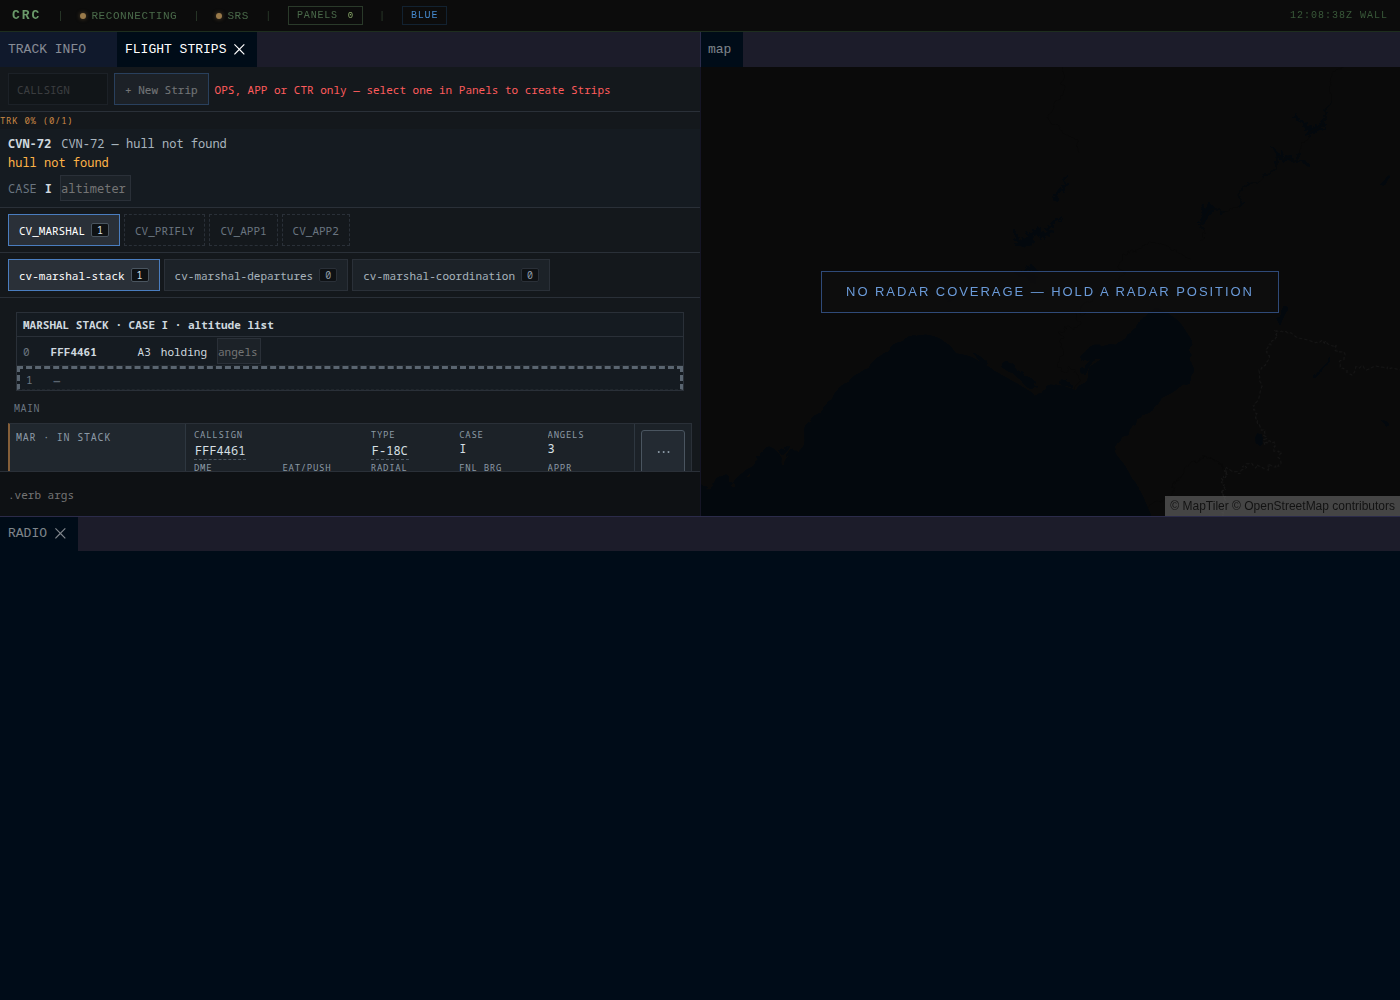
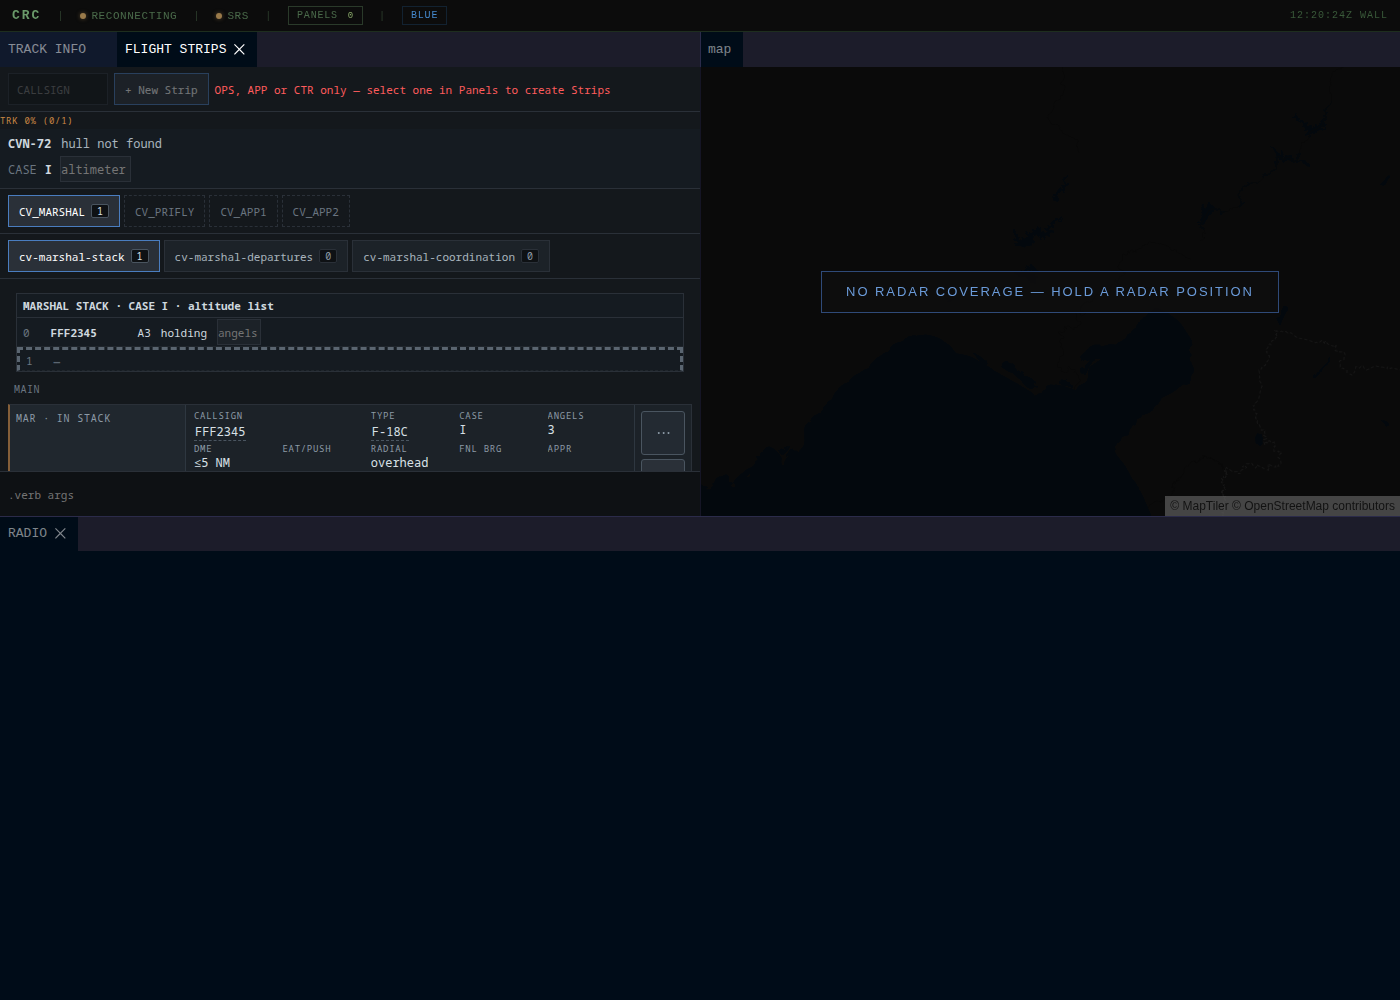
docs(L17): ADR 0074 and wip notes; reachability tests for the carrier Strip

diff --git a/crc-desktop/tests/efsp-ui-reachability.test.js b/crc-desktop/tests/efsp-ui-reachability.test.js
@@ -2564,3 +2564,72 @@ test('a controller holding TAC_C2 and AIC answers a TOFI exit on an AIC-held lin
   click(findByText(only.el, 'Accept TOFI Exit'));
   assert.equal(only.sent[0].actingPositionId, 'AIC', 'the server refuses it, with a reason (AIC has no TOFI grant)');
 });
+
+// ── crc-sync's docs/adr/0074: the carrier ─────────────────────────────────
+// Every carrier control a controller needs is on the Strip and sends the right op, and nothing
+// derived is editable. The harness above loads no carrier scripts, so this test loads them into
+// the sandbox it built.
+
+function carrierRender(strip, { held, caseValue = 'II' }) {
+  const r = renderStrip({ strip, fdr: { ...FDR, military: { ...FDR.military, carrier: { eeatUtc: null, approachType: null, approachButton: null } } }, held });
+  for (const file of ['carrier-state.js', 'carrier-panel.js']) {
+    vm.runInContext(fs.readFileSync(path.join(CLIENT, file), 'utf8'), r.sandbox, { filename: file });
+  }
+  const { CarrierStore } = require('../../crc-sync/src/efsp/carrier-store.js');
+  const hullConfig = require('../../crc-sync/src/efsp/carrier/hull-config.js');
+  const store = new CarrierStore({ hulls: hullConfig.getHulls(), clock: { now: () => Date.UTC(2026, 5, 1, 9, 0), source: 'T' } });
+  if (caseValue !== 'III') store.apply({ clientMutationId: 'c', op: { kind: 'SetCase', to: caseValue } }, 'CV_PRIFLY', 'p');
+  store.apply({ clientMutationId: 'a', op: { kind: 'Append', fdrId: 'f1' } }, 'CV_MARSHAL', 'm');
+  r.sandbox.applyEfspCarrierSnapshot({ carriers: [JSON.parse(JSON.stringify(store.view()))] });
+  r.el = r.sandbox._buildStripEl(strip);
+  return r;
+}
+const marshalStrip = (extra = {}) => stripAt({
+  role: 'MARSHAL', state: 'IN_STACK', ownerPositionId: 'CV_MARSHAL', bayId: 'cv-marshal-stack',
+  nla: { toState: 'COMMENCED', transferTo: 'CV_APP1', carrierTransfer: 'MARSHAL_TO_APPROACH' }, ...extra,
+});
+
+test('a MARSHAL Strip in Case II: Commence is the NLA, See you is its own button, each carrying its own trigger type', () => {
+  const r = carrierRender(marshalStrip(), { held: ['CV_MARSHAL'] });
+  const buttons = descendants(r.el).filter(c => c.dataset && c.dataset.carrierTransfer);
+  assert.deepEqual(buttons.map(b => [b.textContent, b.dataset.carrierTransfer, b.dataset.carrierTrigger]), [
+    ['Commence', 'MARSHAL_TO_APPROACH', 'CONTROLLER_INITIATED'],
+    ['See you', 'MARSHAL_TO_PRIFLY', 'PILOT_SEE_YOU'],
+  ]);
+  click(buttons[0]);
+  assert.deepEqual(JSON.parse(JSON.stringify(r.sent[0].op)), { kind: 'InvokeNla' });
+  click(buttons[1]);
+  assert.equal(r.sent[1].actingPositionId, 'CV_MARSHAL');
+  assert.deepEqual(JSON.parse(JSON.stringify(r.sent[1].op)), { kind: 'CarrierTransfer', transfer: 'MARSHAL_TO_PRIFLY' });
+});
+
+test('"See you" is Case II only, and only for the Marshal who owns the Strip', () => {
+  const caseIII = carrierRender(marshalStrip(), { held: ['CV_MARSHAL'], caseValue: 'III' });
+  assert.equal(descendants(caseIII.el).filter(c => c.dataset && c.dataset.carrierTransfer === 'MARSHAL_TO_PRIFLY').length, 0);
+  const notMine = carrierRender(marshalStrip(), { held: ['CV_PRIFLY'] });
+  assert.equal(descendants(notMine.el).filter(c => c.dataset && c.dataset.carrierTransfer === 'MARSHAL_TO_PRIFLY').length, 0);
+});
+
+test('the derived carrier Blocks are read-only cells showing the server\'s values; the flight\'s own Blocks are editable', () => {
+  const r = carrierRender(marshalStrip(), { held: ['CV_MARSHAL'] });
+  for (const id of ['C3', 'C5', 'C6', 'C7', 'C8', 'C9']) {
+    const cell = blockCell(r.el, id);
+    if (!cell) continue; // C5/C8/C9 may be blank and still drawn; a cell that exists must not be editable
+    assert.equal(cell.classList.contains('efsp-block-editable'), false, `${id} must not be editable`);
+  }
+  assert.equal(blockCell(r.el, 'C7').textContent, '6');
+  assert.equal(blockCell(r.el, 'C6').textContent, '21');
+  assert.equal(blockCell(r.el, 'C10').classList.contains('efsp-block-editable'), true, 'the approach button is typed by the Marshal');
+  assert.equal(blockCell(r.el, 'C15').classList.contains('efsp-block-editable'), true, 'EEAT is typed on the Strip');
+  assert.ok(blockCell(r.el, 'C4'), 'the approach type picker is on the Strip');
+});
+
+test('a FINAL Strip has no editable cell and no input at all', () => {
+  const strip = stripAt({ role: 'FINAL', state: 'ON_FINAL', ownerPositionId: 'CV_APP1', bayId: 'cv-app1-final', nla: { toState: 'BALL', carrierTransfer: 'FINAL_TO_LSO' } });
+  const r = carrierRender(strip, { held: ['CV_APP1'] });
+  assert.equal(descendants(r.el).filter(c => c.classList && c.classList.contains('efsp-block-editable')).length, 0);
+  assert.equal(descendants(r.el).filter(c => c.tagName === 'INPUT' || c.tagName === 'SELECT').length, 0);
+  const ball = descendants(r.el).find(c => c.dataset && c.dataset.carrierTransfer === 'FINAL_TO_LSO');
+  assert.equal(ball.textContent, 'Ball');
+  assert.equal(ball.dataset.carrierTrigger, 'PILOT_BALL_CALL');
+});

diff --git a/docs/adr/0074-carrier-roles-and-the-carrier-facility.md b/docs/adr/0074-carrier-roles-and-the-carrier-facility.md
@@ -1,0 +1,139 @@
+# 0074 — the carrier is wired in as three Roles, a CARRIER Facility and a seventh store, and its four hand-overs are one operation reached by four buttons
+
+**Status.** Built. This is L17's record of Part B of ADR 0064, which it implements. Under decisions P4 neither
+ADR is edited; where this one departs from 0064 Part B it says so (the list is "What differs from 0064").
+
+## Decisions at a glance
+
+1. **MARSHAL, FINAL and PATTERN are three Strip Roles** with their own states, owners, NLA tables and Block Maps,
+   registered everywhere a Role is (`STATES_BY_ROLE`, `STATE_OWNERS_BY_ROLE`, `COMPUTE_BY_ROLE`, `BLOCK_MAPS`,
+   `DEFAULT_INITIAL_STATE_BY_ROLE`, the traffic count). None of their states collides with another Role's (a test
+   holds that; `FINAL` is an ARRIVAL state and is deliberately not reused).
+2. **The CARRIER Facility has four `MILITARY_ATC` Positions** (`CV_MARSHAL`, `CV_PRIFLY`, `CV_APP1`, `CV_APP2`) with
+   no coordination Bays and PriFly outside the covering chain, exactly as 0064 B1 proposed.
+3. **The Case, the Marshal stack and the altimeter are a seventh store, the `CarrierStore`**, keyed by hull. A Case
+   change is one delta carrying the whole hull record, and every carrier Strip re-renders from it.
+4. **The four hand-overs are one operation, `_applyCarrierTransfer`**, reached by the NLA button or by the explicit
+   `CarrierTransfer` op. Each records its own trigger type on the Strip and in the audit log. A drag into the Bay a
+   hand-over implies is refused and names the button.
+5. **Nothing derived can be typed.** Angels, DME, push time, the expected final bearing and the Case are
+   `carrier-derived` Blocks: display only, and `SetBlock` on one is a `VALIDATION_ERROR` by the same route as a
+   `system` Block. The Marshal's one number for a flight is its slot.
+6. **FINAL has nothing writable, structurally.** Every Block of its map is `system`, `flag` or `carrier-derived`.
+7. **EEAT, approach, button, bingo and low state are on the flight** (`fdr.military.carrier`) and so are on the
+   recovery Strip because they were on the launch Strip.
+8. **Authority is a capability table in L23's shape** (`CARRIER_CAPABILITIES`): PriFly sets the Case, the Marshal
+   sequences the stack, PriFly and the Marshal enter the altimeter, and the model's own `from` list says who may
+   record each hand-over.
+9. **Every `INELIGIBLE_STATES` decision is forced by a test.** All carrier states are eligible for correlation,
+   `LAUNCH` included.
+
+## Context
+
+L4 (ADR 0064) built the pure model and designed the wiring, and decisions.md ruled on what it asked: the hull is
+CVN-72 `UNION` (H13, H26), the marshal radial is settable and defaults to final bearing + 180 (H27), no automatic
+compression (H28), one stack (H29), no FACSFAC (H30), a validated button with no list (H31). L23 (ADR 0080) then
+landed the capability-table pattern in `permission.js`, which this lane uses instead of a hand-written list.
+
+## Decision
+
+### Roles and Block Maps (`nla.js`, `permission.js`, `block-map.js`)
+
+States as 0064 B2: MARSHAL `LAUNCH`, `IN_STACK`, `COMMENCED`; FINAL `ON_FINAL`, `BALL`, `BOLTER_WAVEOFF`; PATTERN
+`IN_PATTERN`, `RECOVERED`; each ends in `DROPPED`. Owners: the Marshal owns `LAUNCH` and `IN_STACK`; a lane owns
+`COMMENCED`, `ON_FINAL`, `BALL` and `BOLTER_WAVEOFF`; PriFly owns the pattern. The NLA tables are registered in the
+same commit as the Roles (the `computeNla` fallback to the DEPARTURE table would have offered a MARSHAL Strip "Send
+to Clearance"). The NLA out of `IN_STACK` reads the recovery Case and the lane the stack feeds, through two new
+`ctx` functions.
+
+The Block ids are `C`-prefixed as 0064 B3 said. Two target kinds are new: `carrier` (a field of the flight,
+written by `fdr-store.js`'s `setCarrier`) and `carrier-derived` (display only).
+
+### The CARRIER Facility (`facility-config.js`, `carrier/hull-config.js`)
+
+As 0064 B1, plus the radar-selector extension 0064 recommended: a `{ kind: 'carrier' }` selector now takes
+`radar: 'search' | 'approach'` and `hull: 'CVN-72'`, `radars.js` tags the two ship radars and carries the ship's
+unit name and type, and `station-coverage.js` compares them. The bare selector still matches every ship. Hull
+config ships as `config/efsp-carriers.json`, read once at startup and never written (P5).
+
+### The CarrierStore (`carrier-store.js`)
+
+One record per hull: `{ hullId, rev, recoveryCase, stacks: { MAIN }, shipInputs, transitions }`, with MARSA's
+shape (record rev and `STALE_REV`, an audit line for refusals too, a never-throwing `apply`). The ship banner is
+derived by a 1 Hz tick (`carrier-tick.js`) from the matched ship track, with the own coalition, the grid
+convergence and the magnetic variation injected, and is held in memory only. Case and stack persist under
+`carriers` and come back intact; a stack entry whose FDR is gone is dropped without closing up.
+
+The wire view (`view()`) carries the record, the banner, the **derived stack** (so crc-desktop does no arithmetic),
+a `display` object for every bearing (M, T or G, one implementation), the **slots** (what each slot would read if
+a flight stood in it, for the drag preview) and the consistency findings. Messages: `efsp-carrier-mutation` in,
+`efsp-carrier-ack` back, `efsp-carrier-delta` to everyone, and a `carriers` key in the snapshot.
+
+### The hand-overs (`board-store.js`, `carrier/transfer-effects.js`)
+
+`_applyCarrierTransfer` validates the model's row (`validateCarrierTransfer`: Case, sender, receiver), the Strip's
+Role and state, the open-link guards, occupancy (covering Position when the receiver is unmanned), then applies the
+**stack effect first** (Commence marks the flight pushed and renumbers nobody; a hand-over to PriFly removes it
+leaving a vacancy) and only then the Strip (Role in place, state, owner, Bay). Nothing is half applied. The Strip
+carries `carrierTransfer { kind, trigger, label, at, by, from, to }`, and the audit line carries the kind and the
+trigger. A Strip leaving the recovery (`_retireStrip`) leaves the stack with a vacancy.
+
+### Authority (`permission.js`)
+
+`CARRIER_CAPABILITIES` (`setsCase`, `sequencesStack`, `editsShipInput`) with three one-parameter predicates and
+`canRecordCarrierTransfer(pos, kind)`. `CarrierTransfer` is not in `OP_KINDS`; the dispatch asks the predicate.
+Every CV Position's grant is a literal over `NON_CREATE_OPS`, which already excludes coordination, TOFI,
+`ConvertToArrival` and airspace entry, so "the carrier does not talk to the centre" is by construction.
+
+### The client
+
+A banner over the Position tabs (ship state, Case selector for PriFly, read-only Case elsewhere, the advisory when
+non-null, the altimeter input), the **slot board** at the top of the Marshal stack Bay (vacancies as empty slots
+with the server's preview, Close up on a gap, Charlie time and marshal radial, a Case I altitude list with no push
+column; dragging a row to a slot is one `Move`), the NLA button labelled and styled by its hand-over with "See you"
+as the second button in Case II, FINAL with no inputs, and the final-bearing line on the map, drawn only from a
+tracked ship on a TRUE bearing.
+
+## What differs from 0064 Part B
+
+- **An explicit `CarrierTransfer` op exists beside the NLA.** 0064 had the NLA only; the op gives "See you" (which
+  is not the NLA) and the audit tag one implementation to share.
+- **FINAL's identity Blocks are `carrier-derived`, and Block 5 is off the map**, so nothing is writable by
+  construction rather than by a test over an `fdr`-routed map.
+- **A drag into a hand-over's implied Bay is refused** (with the button's name). 0064 left the drag path
+  unspecified; allowing it would move a Strip without the stack effect or the trigger tag. A bolter or waveoff is a
+  drag, as 0064 said, through `alsoLegal` on the NLA result.
+- **Typed values are converted on the server:** EEAT and the Charlie time as Zulu HHMM, the marshal radial as a
+  magnetic bearing (decisions H15); the model only ever holds epoch ms and a true bearing.
+- **A Case or stack change re-states every carrier Strip's NLA** through the NLA status monitor, because the
+  Case decides the button.
+- **A bound `CreateStrip` re-claims the flight's squawk.** The launch Strip's drop released it and the recovery
+  Strip binds to the same flight (found by a walk: the next new flight could be given a live aircraft's code).
+- **Night is derived from the mission clock and the sun's elevation at the ship** (6 degrees below the horizon,
+  `[SOURCE-DEFINED]`). The advisory therefore speaks only at night: the ship's ceiling and visibility are not
+  sourced (0064 B8).
+- **LAUNCH is correlation-eligible.** Correlation matches the FDR against the track store, not against what a
+  ship radar has illuminated, so `noGroundAircraft` does not hide a jet on deck.
+- **The traffic count counts a carrier flight once**: a launch (MARSHAL at `LAUNCH`), a trap (FINAL at `BALL`) or a
+  recovered pattern flight (PATTERN at `RECOVERED`).
+
+## Alternatives considered
+
+- **Only the NLA, no op** (0064): no home for "See you" and two implementations the moment a second entry exists.
+- **A stack Bay re-ordered by the generic Strip drag.** The Strip drag needs the Strip and the target in view at
+  once, and a Bay with a board above it does not fit a small panel. The board's rows are the drag; the Strip's own
+  drag onto a slot is kept.
+- **Client-side preview arithmetic** for a drag: rejected, it is the one-implementation rule again. The server
+  sends the slot previews.
+- **A weather source for the Case advisory** now: out of scope (0064 B8).
+
+## Consequences
+
+- WP7A's bullets 1 to 6 hold at the wire and in the UI; 3's "at once" is one delta.
+- L18 builds RSU, SFA and PAR on `PATTERN` and `FINAL`. PAR's terminal event is its call (a PAR state or `BALL`
+  under a neutral label); the Block Map for FINAL has no writable Block either way.
+- A controller holding only CV_MARSHAL sees lane-owned Strips on no panel of theirs; they are reached through the
+  lane Positions' tabs, as any Position's Strips are.
+- The covering chain ends at the Marshal, who then holds approach Strips it cannot advance (`canActOnState`); they
+  go back when the lane is manned (L23's `returnCoveredStrips`). Recorded, not changed.
+- The `carrier-store.js` view is sent whole on every change; at one hull and at most twenty aircraft that is small.

diff --git a/docs/wip/L17.md b/docs/wip/L17.md
@@ -1,0 +1,105 @@
+# L17 — Carrier Roles and the CARRIER Facility (WP7A part 2)
+
+Branch `lane/L17-carrier` (cut from `efsp-wp5-correlation` at `d9e9176`). ADR
+`docs/adr/0074-carrier-roles-and-the-carrier-facility.md`. Run on `E2E_LANE=8`.
+
+## Report
+
+- **Tests.** crc-sync 1852 -> 1887 pass (new: `efsp-carrier-roles`, `efsp-carrier-tick`,
+  `efsp-scenario-carrier-l17`; four existing expectations updated for a fifth Facility). crc-desktop 717 -> 736
+  (new: `efsp-carrier-client`, parity, NLA-mirror and reachability tests). Playwright `l17-carrier.spec.js` 5/5
+  (screenshots in `docs/wip/L17/`).
+- **New files.** `crc-sync/src/efsp/carrier-store.js`, `carrier-tick.js`, `carrier/hull-config.js`,
+  `carrier/sun.js`, `carrier/transfer-effects.js`, `config/efsp-carriers.json`;
+  `crc-desktop/app/public/js/panels/efsp/carrier-state.js`, `carrier-panel.js`, `e2e/l17-carrier.spec.js`.
+- **Roles were committed first** (`203f107`) so L18 could read them.
+
+## Code as found (traps and what they turned out to be)
+
+- 0064's trap held: `computeNla` falls back to the DEPARTURE table for an unknown Role; the NLA tables were
+  registered in the same commit as the Roles.
+- `INELIGIBLE_STATES`: the existing test only checks listed states still exist. Added a test where EVERY state of
+  EVERY Role has an explicit expectation, so a state added later fails until someone decides.
+- Ship radars set `noGroundAircraft`, but correlation matches the FDR against the track store, so LAUNCH is
+  eligible (default kept, with the reason in the reconciler).
+- `normalizeStack` returns `{ok, stack, dropped}`, not the stack (the first restore silently emptied the Board
+  restore: the crash-replay tests caught it).
+- `ReplayCache` has a fixed kind list: appended `carrier`.
+- Dropping the launch Strip released the flight's squawk and a bound recovery `CreateStrip` did not re-claim it.
+  Fixed in `_applyCreateStrip` (the bound branch calls `reacquireFdr`), tested.
+- The Case decides every carrier Strip's NLA, but Strips carry `nla` stamped at their last broadcast. A Case
+  change left them stale until found by the Playwright walk; the NLA status monitor now ticks after a carrier op.
+- A Strip drag needs the Strip and its target in view together; the Marshal Bay with a board above it does not
+  fit a small panel. The board's own rows are the drag.
+
+## What the guide / briefing should say
+
+`docs/efsp-usage-guide.md`, carrier section (build on L4's wip notes):
+
+- The recovery Case is PriFly's, one setting for the ship; the other three Positions see it read-only. A weather
+  advisory shows only when the set Case is less restrictive than the floor, and never blocks. Today the floor
+  knows only night (the ship's ceiling and visibility are not sourced).
+- The Marshal stack board: slot, flight, angels, DME, push time. The slot is the only number you set for a
+  flight: drag a row (or the Strip) to the slot you want. Everyone above moves up together. Taking a flight out
+  leaves a gap; press Close up on it if you want the stack to compress. Commence never moves anyone.
+- Case I is an altitude list: type the squadron-assigned angels (2 to 20); there are no DME or push columns.
+- Type the Charlie time as Zulu HHMM and the marshal radial as a MAGNETIC bearing; Enter sets, empty Enter on the
+  radial returns to the default (final bearing + 180).
+- Set EEAT (Zulu HHMM), approach, button, bingo and low state on the launch Strip; they are on the flight and are
+  on the recovery Strip. The button is a number 1 to 20, never a frequency.
+- Four hand-overs, four buttons: Commence (Marshal to a lane), Radar contact (lane, MARSHAL becomes FINAL), Ball
+  (FINAL to BALL), See you (Case II only: to PriFly as PATTERN). Case I has its own "To pattern". Each records its
+  trigger type. Dragging a Strip into a lane Bay does not do it; the button does.
+- FINAL has nothing to type. A bolter is a drag to the Bolter Bay; the NLA brings it back on final.
+- The banner is computed from DCS. Only the altimeter can be set. A `T` or `G` suffix means the variation or
+  convergence is missing; "hull not found" and "ship track lost" are shown as they are.
+
+`docs/efsp-briefing.md`: add `carrier-store.js` and `carrier-tick.js` to the module map; the Roles; the CARRIER
+Facility; the four messages (`efsp-carrier-mutation`, `-ack`, `-delta`, and `carriers` in the snapshot); the
+`CarrierTransfer` op and the `carrierTransfer` / `carrierTrigger` audit fields; ADR 0074 in the ADR list.
+
+## Walks done / not done
+
+Done on the wire (`efsp-scenario-carrier-l17.test.mjs`) and in the browser (`l17-carrier.spec.js`): launch to
+recovery with EEAT surviving, the derived Blocks refused, Case by PriFly only and as one delta, the stack
+re-sequenced by one drag, lanes alternating and falling back, all four hand-overs and Case I's, a bolter, FINAL
+with nothing writable, a restart, typed HHMM and magnetic values, the squawk surviving a launch drop.
+
+Not done: a real DCS ship (the harness has no gRPC, so the banner shows "hull not found"; the tick is covered by
+a unit test with a built track); two hulls; the deck-state board contents (0064 B8); the in-browser look of the
+final-bearing line (unit-tested, not screenshotted); the four-hour soak.
+
+## Defaults taken (P2)
+
+- **Q1 (a)** `LAUNCH` is correlation-eligible (reason above).
+- **Q2 (a)** Block ids `C`-prefixed as 0064; `C11` (altimeter) and the ship WX are the banner, not Blocks.
+- **Q3 (a)** FINAL's identity Blocks are `carrier-derived`, Block 5 off the map: nothing writable by construction.
+- **Q4 (a)** An explicit `CarrierTransfer` op beside the NLA, one implementation.
+- **Q5 (a)** A drag into a hand-over's Bay is refused with the button's name; a bolter is the one allowed drag.
+- **Q6 (a)** A recovery check-in is appended to the stack at the next free slot; a full stack is a warning.
+- **Q7 (a)** Radar selectors `{ kind: 'carrier', hull, radar }` as 0064 recommended: Marshal and lanes take both
+  radars, PriFly the search radar.
+- **Q8 (a)** Night is the sun more than 6 degrees below the horizon at the ship, from the mission clock.
+- **Q9 (a)** Traffic count: a launch, a trap and a recovered pattern flight each count once.
+- **Q10 (a)** Position letters `V`, `P`, `1`, `2` for the scope (`M` is taken by the tactical Positions).
+- **Q11 (a)** The covering chain is 0064's (APP2 to APP1 to Marshal); the Marshal then holds Strips it cannot
+  advance. Recorded in the ADR, not changed.
+
+## Findings for other lanes
+
+- **L18.** `PATTERN` and `FINAL` are ready: Block Maps, NLA tables, owners (`CV_PRIFLY` owns the pattern; add RSU
+  to `PATTERN_STATE_OWNERS` and the client mirror in `efsp-nla.js`, which a drift test holds). FINAL's map has no
+  writable Block by construction; if PAR needs a terminal state, add it to `FINAL_STATES`, `FINAL_STATE_OWNERS`,
+  `computeFinalNla` and the traffic-count table (a test forces each). `radar-panel.js`'s
+  `EFSP_FACILITY_POSITIONS` has a new `CARRIER` line: expect a one-line merge there.
+- **Supervisor / soak.** `npm run soak:selfcheck` fails `drop-broadcast` on the branch base (`d9e9176`) as well:
+  not from this lane (checked against an archive of the base).
+- **L20 / errata.** ADR 0042's `radar-specs.json` is `sensor-specs.json` (already in L4's notes).
+- **Shared files touched, small hunks:** `efsp-ws.js` (new case, handler, snapshot key, one broadcast),
+  `ws-hub.js` (carrierBroadcast, one method), `index.js` (registration), `replay-cache.js` (one kind),
+  `traffic-count.js` (three table rows), `correlation-reconciler.js` (a comment), `board-store.js`,
+  `strip-view.js` (ROLE_ABBR, the NLA label, two guarded calls), `bay-view.js` (four guarded hunks),
+  `efsp-state.js` (one guarded call), `geojson.js` and `map-setup.js` (the line), `app.js` (two cases),
+  `helpers/efsp-scenario.mjs` (appended `carrierAct`).
+- **Playwright load.** Under load from other lanes a multi-file run showed flakes that did not reproduce in
+  isolation (`l17-carrier` 5/5 alone and after `l1-nla-clearance-chain`; `tactical-positions` 5/5 alone).
